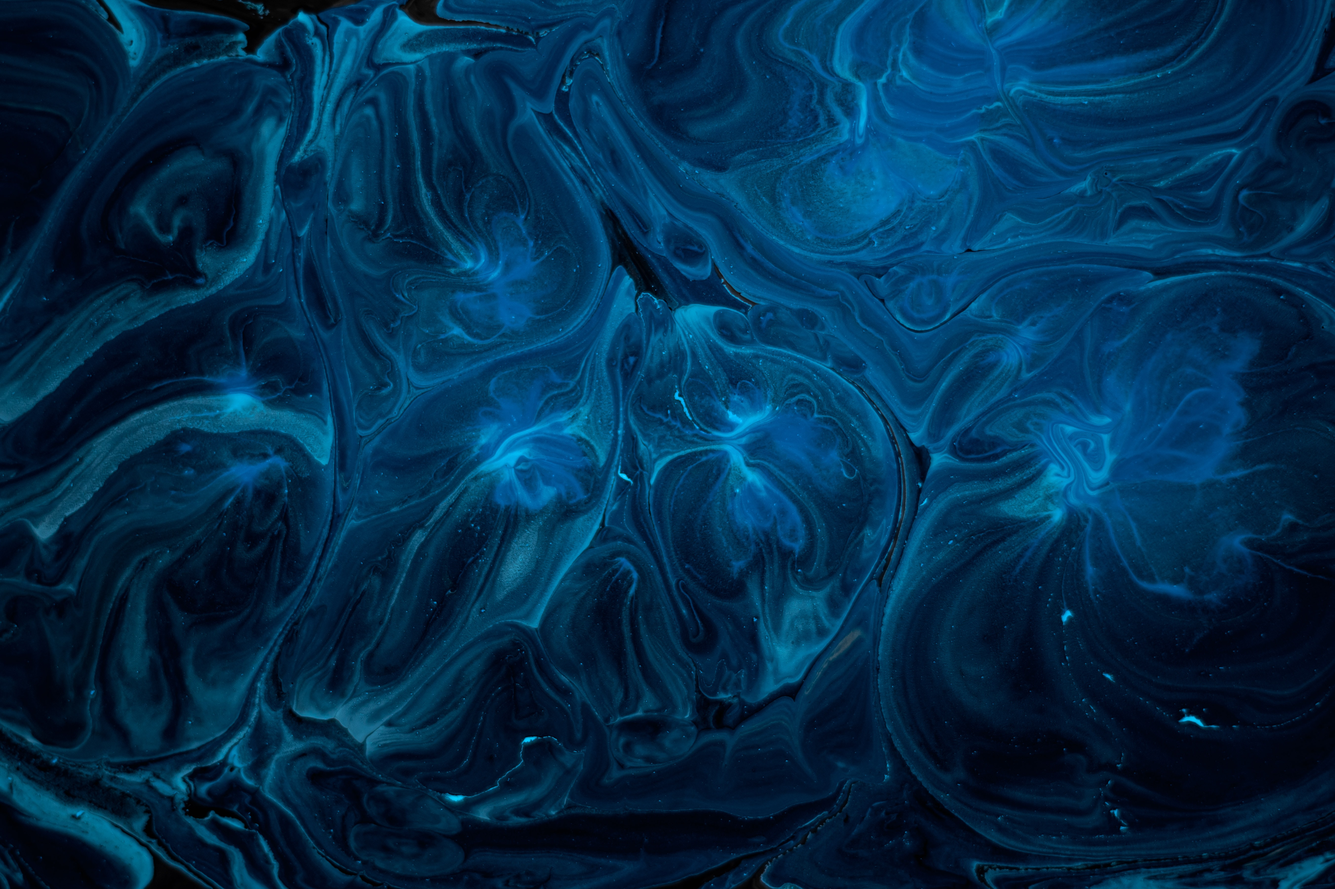
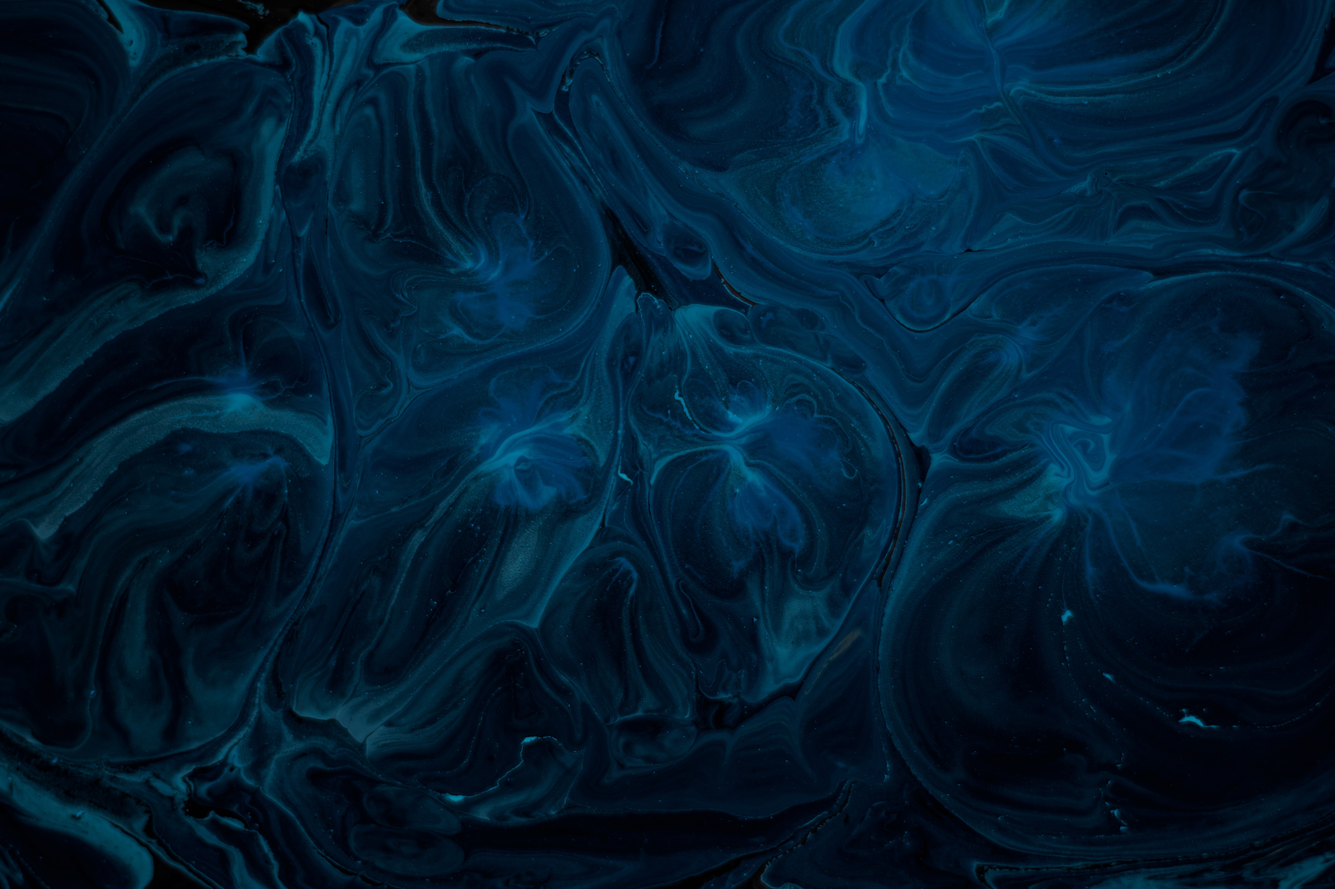
Add images, links and styling to merch-section.

diff --git a/index.html b/index.html
@@ -76,36 +76,41 @@
                     <div class="container">
                         <img src="assets/images/vinyl.jpg" alt="Vinyl Cemetery of the Living" class="image">
                         <div class="middle">
-                            <div class="text"><a href="https://www.ticketmaster.com/" target="_blank" rel="noopener"
-                                    aria-label="Find more tour-dates (link opens in a new tab)"> Vinyl</div>
+                            <div class="merch-text"><a href="https://www.merchbar.com/" target="_blank" rel="noopener"
+                                    aria-label="Find more tour-dates (link opens in a new tab)"> Cemetery Of The Living Vinyl  <br> 15.00 EUR </div>
                         </div>
                     </div>
 
                     <div class="container">
-                        <img src="assets/images/t-shirt.jpg" alt="Vinyl Cemetery of the Living" class="image">
+                        <img src="assets/images/t-shirt.jpg" alt="T-shirt" class="image">
                         <div class="middle">
-                            <div class="text"><a href="https://www.ticketmaster.com/" target="_blank" rel="noopener"
-                                    aria-label="Find more tour-dates (link opens in a new tab)"> Vinyl</div>
+                            <div class="merch-text"><a href="https://www.merchbar.com/" target="_blank" rel="noopener"
+                                    aria-label="Find more tour-dates (link opens in a new tab)">Je vais bien, et vous? Cover Black Collage T-shirt <br> 15.00 EUR</div>
                         </div>
                     </div>
 
                     <div class="container">
                         <img src="assets/images/t-shirt-2.jpg" alt="Vinyl Cemetery of the Living" class="image">
                         <div class="middle">
-                            <div class="text"><a href="https://www.ticketmaster.com/" target="_blank" rel="noopener"
-                                    aria-label="Find more tour-dates (link opens in a new tab)"> Vinyl</div>
+                            <div class="merch-text"><a href="https://www.merchbar.com/" target="_blank" rel="noopener"
+                                    aria-label="Find more tour-dates (link opens in a new tab)"> Inner Saboteur Cover Black Collage T-shirt <br> 15.00 EUR</div>
                         </div>
                     </div>
 
                     <div class="container">
                         <img src="assets/images/hoodie.jpg" alt="Vinyl Cemetery of the Living" class="image">
                         <div class="middle">
-                            <div class="text"><a href="https://www.ticketmaster.com/" target="_blank" rel="noopener"
-                                    aria-label="Find more tour-dates (link opens in a new tab)"> Vinyl</div>
+                            <div class="merch-text"><a href="https://www.merchbar.com/" target="_blank" rel="noopener"
+                                    aria-label="Find more tour-dates (link opens in a new tab)"> Cemetery Of The Living Black Hoodie <br> 20.00 EUR</div>
                         </div>
                     </div>
-
-                        <h3>Official store</h3>
+                       
+                    </div>
+                    <div class="button-container">
+                    <div class="store-button">
+                        <h3><a href="https://www.merchbar.com/" target="_blank" rel="noopener"
+                            aria-label="Find more tour-dates (link opens in a new tab)">Official store</h3>
+                        </div>
                     </div>
 
     </section>

diff --git a/assets/css/style.css b/assets/css/style.css
@@ -135,7 +135,7 @@ h2, th, td{
 
 
   #merch{
-    background-color: blue;
+    background-color: #001836;
     background-image: url('../images/merch.jpg');
     height:800px;
     background-position: center;
@@ -149,25 +149,25 @@ h2, th, td{
     justify-content: space-around;
     margin: auto;
     flex-wrap: wrap;
-    width: 90%;
-    min-width:600px;
+    max-width: 1300px;
+    position: relative;
   
   }
   
   .image {
-    width: 20%;
+    width: 300px;
     height: auto;
     display: inline-block;
     padding-top:20px;
     opacity: 1;
     transition: .5s ease;
+    margin: 10px;
     backface-visibility: hidden;
   }
 
-  .container1 {
+  .container {
     position: relative;
-    width: 200px;
-    width: 200px;
+    width: 300px;
     height: auto;
     display: inline-block;
     padding-top:20px;
@@ -194,43 +194,47 @@ h2, th, td{
     opacity: 1;
   }
   
-  .text {
-    background-color: #04AA6D;
-    color: white;
+  .merch-text {
+    background-color: #000;
+    color:#fff;
     font-size: 16px;
-    padding: 16px 32px;
+    padding: 16px;
+    font-family: Merriweather, Arial, sans-serif;
+    text-transform: uppercase;
   }
   
-
-
-
-
-
-
-
   .store-button{
-     border: 3px solid #FFF;
-     width: 300px;
-     height: 80px;
-     padding:10px;
-     margin-top:60px; 
-  }
-  
-  #merch h2 {
-  padding-top:200px;
+    border: 3px solid #FFF;
+    width: 300px;
+    height: 90px;
+    padding:10px;
+    margin-top:60px; 
+ }
+.button-container {
   margin: auto;
-  }
+  width: 20%;
+}
   
   #merch h3 {
     text-align: center;
     font-size:30px;
+    width:300px;
     border-bottom: 2px solid #FFF;
-    font-family: Arial, Helvetica, sans-serif;
+    font-family: Merriweather, Arial, sans-serif;
     text-transform: uppercase;
-    width:10em;
     padding-bottom:10px;
     color:#fff;
+    text-align-last: center;
+    vertical-align: center;
+    padding-top: 20px;
+
   }
+
+  #merch h2 {
+    padding-top:100px;
+    margin: auto;
+    width: 50%;
+    }
 
 
 
